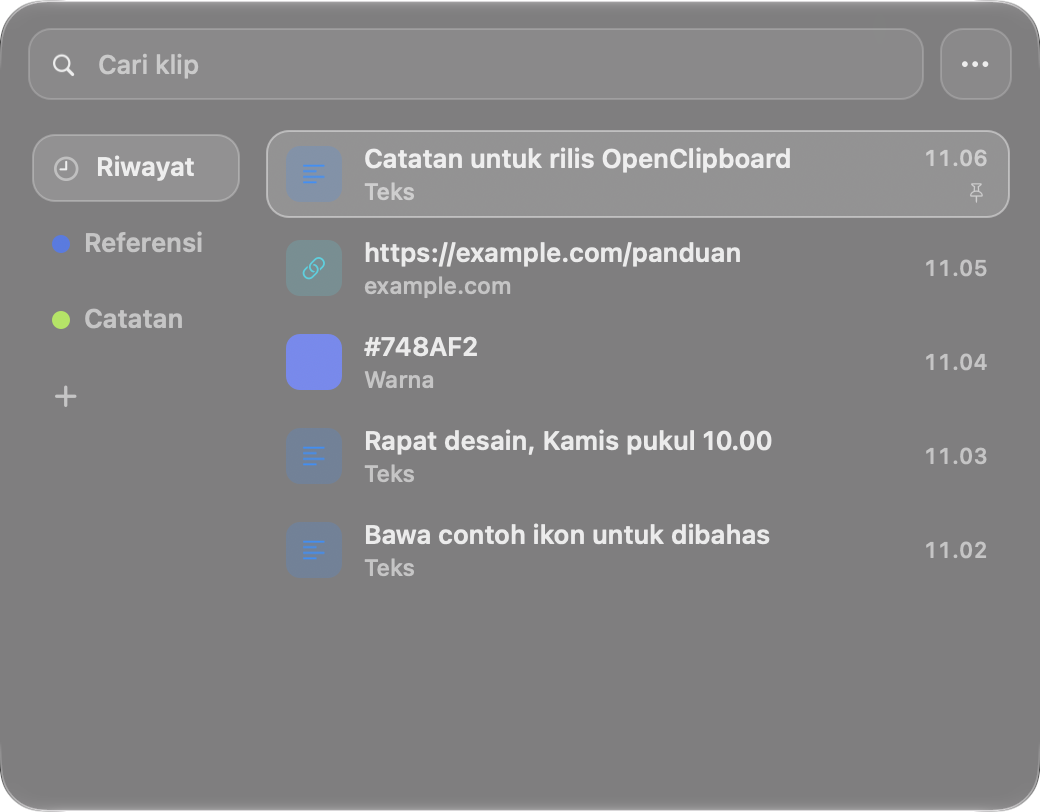
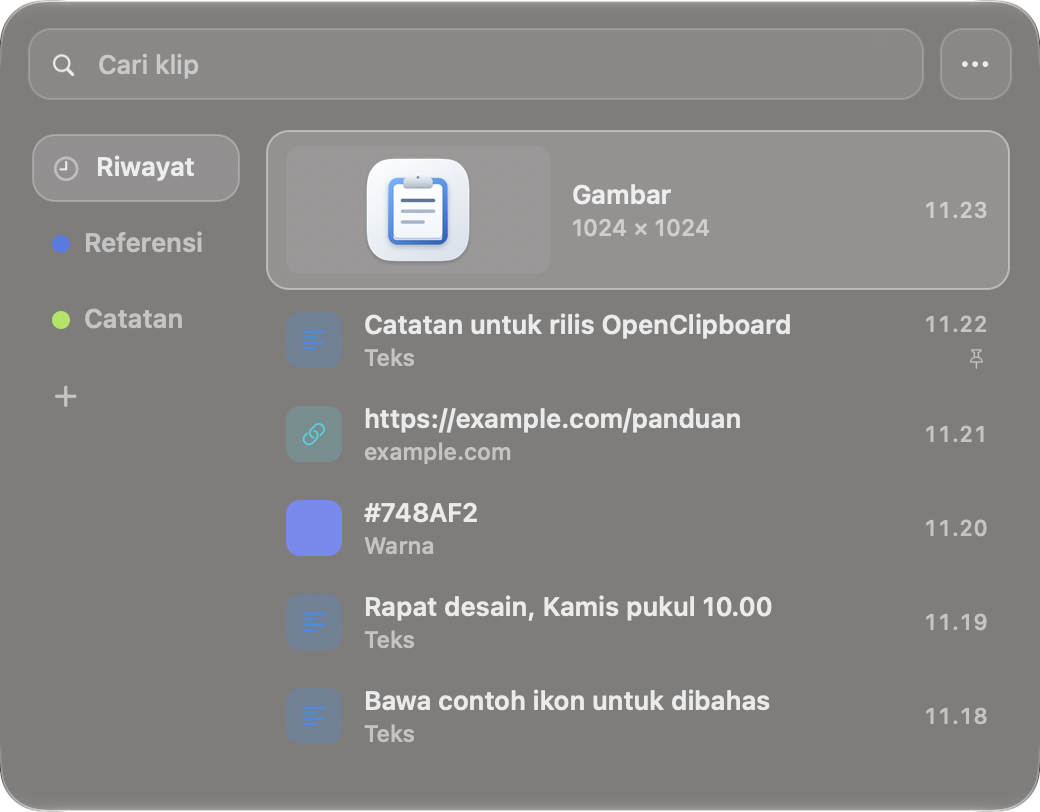
docs: show image clips in screenshots

diff --git a/README.md b/README.md
@@ -20,15 +20,15 @@ Rilis ini belum dinotariskan oleh Apple. Jika macOS memblokir saat pertama dibuk
 
 ## Dua tampilan riwayat
 
-Popup muncul di dekat kursor teks jika izin Accessibility aktif. Daftar klip ada di sebelah kanan, sementara koleksi bisa dipilih dari sisi kiri.
+Popup muncul di dekat kursor teks jika izin Accessibility aktif. Pilih koleksi dari sisi kiri. Klip gambar di daftar menampilkan miniatur dan ukuran dalam piksel.
 
 <p align="center">
-  <img src="docs/screenshots/popup.png" alt="Popup riwayat dengan daftar klip dan koleksi di sisi kiri" width="520">
+  <img src="docs/screenshots/popup.png" alt="Popup riwayat dengan miniatur klip Gambar berukuran 1024 × 1024 piksel" width="520">
 </p>
 
 Kalau lebih suka melihat isi klip sebagai kartu, pilih **Panel bawah layar** di Pengaturan. Kartu ditampilkan berjajar dan bisa digulir ke samping.
 
-![Panel bawah OpenClipboard menampilkan kartu teks, tautan, dan warna](docs/screenshots/riwayat.png)
+![Panel bawah OpenClipboard menampilkan kartu gambar, teks, tautan, dan warna](docs/screenshots/riwayat.png)
 
 ## Cara pakai
 
